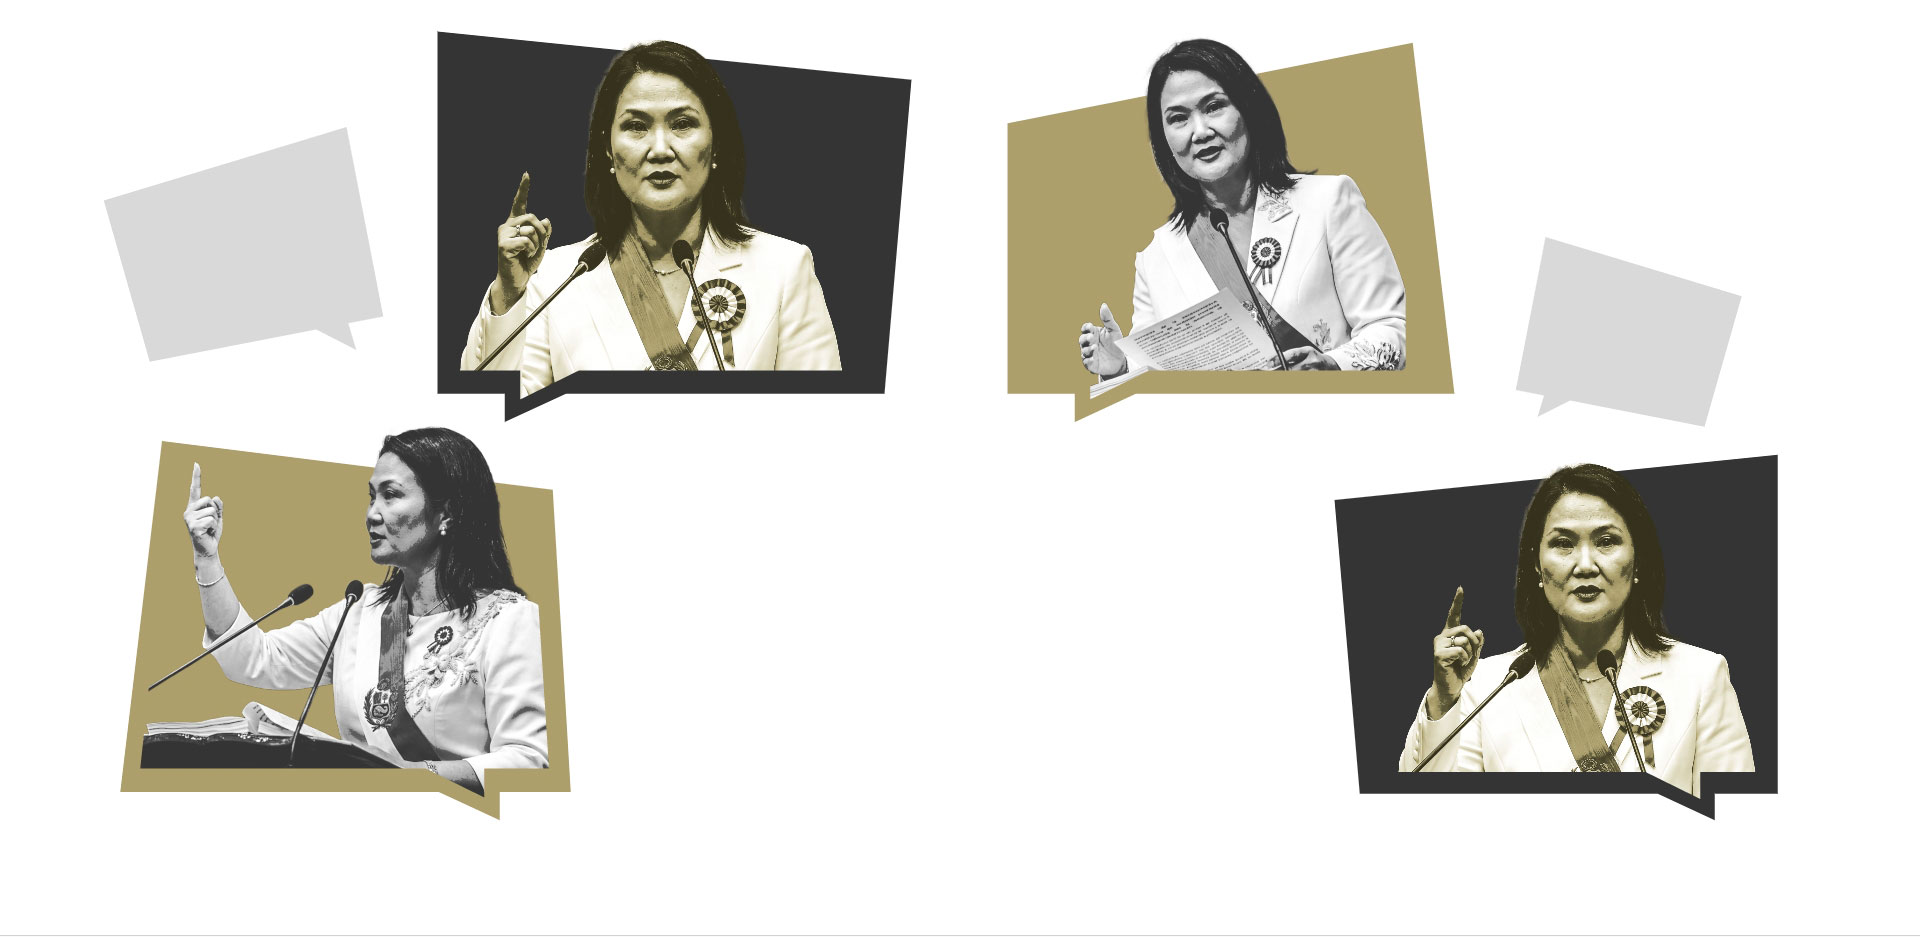
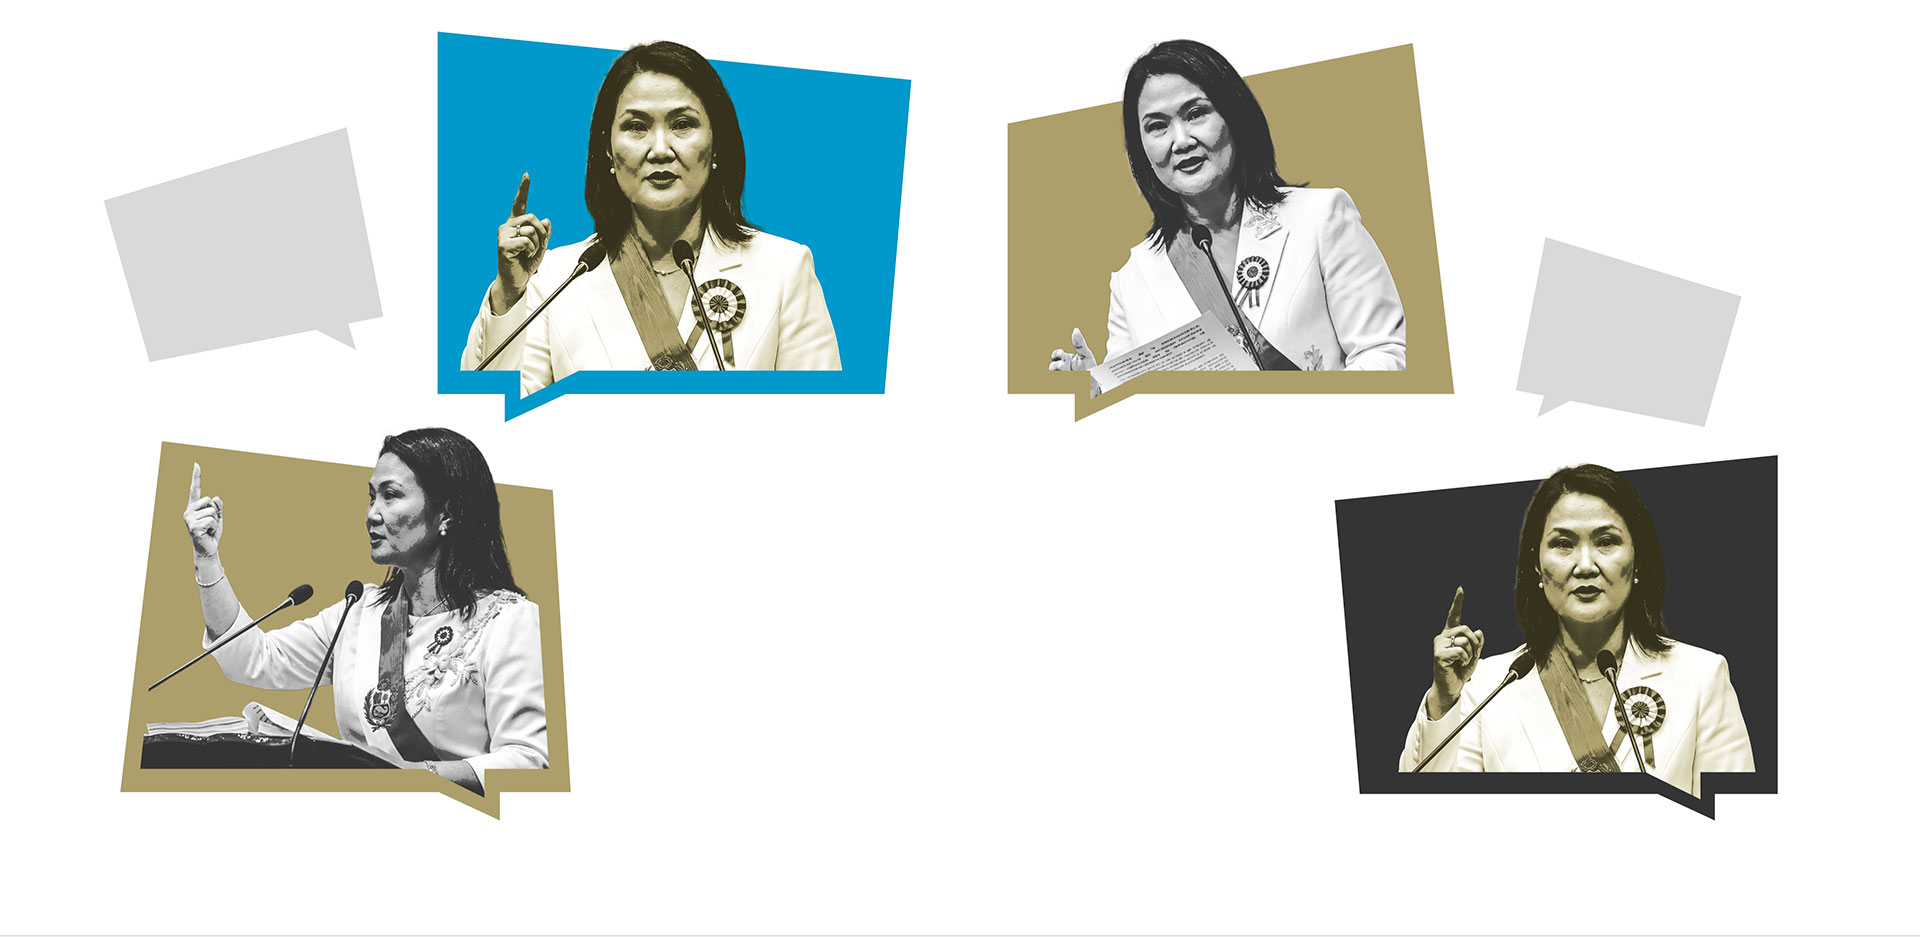
update

diff --git a/css/style.css b/css/style.css
@@ -381,6 +381,8 @@
       padding: 0 24px;
       border-radius: 3px;
       margin-bottom: 32px;
+      max-width: 635px;
+      margin: 30px auto;
     }
     #audio-player.sticky {
       position: fixed;
@@ -903,7 +905,7 @@
       color: var(--ink);
     }
     .story-caption .story-handle { color: var(--ink-muted); }
-    .story-caption .story-cat { font-weight: 700; }
+    .story-caption .story-cat { font-weight: 700; display: block;}
 
     /* Visor de historias (overlay) */
     .stviewer {
@@ -1673,6 +1675,10 @@
       background: white;
     }
 
+    #perfil,
+    .modE-marcos-card{
+      display: none;
+    }
     /* ─── Módulo 05 — Perfil y Forma del Discurso ─────────────── */
     .modE-section { padding: 72px 24px; background: var(--bg); border-bottom: 1px solid var(--border); }
     .modE-inner { max-width: 960px; margin: 0 auto; }
@@ -1929,7 +1935,7 @@
     }
     @media (max-width: 620px) { .rz-float-card { position: static; width: 100%; margin-top: 24px; } }
     .rz-float-rule { height: 1px; background: var(--ink); width: 44px; }
-    .rz-float-title { font-family: var(--font-serif); font-size: 18px; font-weight: 700; color: var(--ink); line-height: 1.3; margin: 16px 0 12px; }
+    .rz-float-title { font-family: var(--font-serif); font-size: 17px; font-weight: 700; color: var(--ink); line-height: 1.3; margin: 16px 0 12px; }
     .rz-float-desc { font-size: 13px; color: var(--ink-muted); line-height: 1.6; margin-bottom: 18px; }
     .rz-float-rule + .rz-float-audio { margin-top: 16px; }
     .rz-float-audio {

diff --git a/js/main.js b/js/main.js
@@ -7930,10 +7930,10 @@ document.addEventListener('keydown', e => {
 // ═══════════════════════════════════════════════════════════════
 (function() {
   var EDITORES = [
-    { handle: '@NombreUsuario', categoria: 'Política',  avatar: './img/editores/politica.jpg',  video: './video/editores/politica.mp4'  },
-    { handle: '@NombreUsuario', categoria: 'Economía',  avatar: './img/editores/economia.jpg',  video: './video/editores/economia.mp4'  },
-    { handle: '@NombreUsuario', categoria: 'ECData',    avatar: './img/editores/ecdata.jpg',    video: './video/editores/ecdata.mp4'    },
-    { handle: '@NombreUsuario', categoria: 'Nacional',  avatar: './img/editores/nacional.jpg',  video: './video/editores/nacional.mp4'  }
+    { handle: 'Hector Villalobos', categoria: 'Política',  avatar: './img/editores/politica.jpg',  video: './video/editores/politica.mp4'  },
+    { handle: 'Maro Villalobos', categoria: 'Economía',  avatar: './img/editores/economia.jpg',  video: './video/editores/economia.mp4'  },
+    { handle: 'Ariana Lira', categoria: 'ECData',    avatar: './img/editores/ecdata.jpg',    video: './video/editores/ecdata.mp4'    },
+    { handle: 'Juan Pablo León', categoria: 'Nacional',  avatar: './img/editores/nacional.jpg',  video: './video/editores/nacional.mp4'  }
   ];
   var FALLBACK_SECS = 6;    // duración de la barra si el video no carga
   var HOLD_MS = 220;        // umbral para distinguir "tap" de "mantener presionado"
@@ -7956,7 +7956,7 @@ document.addEventListener('keydown', e => {
         '<span class="story-avatar-fallback">' + inicial + '</span>' +
       '</span></span>' +
       '<span class="story-caption"><span class="story-handle">' + e.handle +
-      '</span> / <span class="story-cat">' + e.categoria + '</span></span>';
+      '</span>  <span class="story-cat">' + e.categoria + '</span></span>';
     btn.addEventListener('click', function() { open(i); });
     row.appendChild(btn);
   });

diff --git a/discurso-completo.html b/discurso-completo.html
@@ -10,7 +10,7 @@
     <link rel="preconnect" href="https://fonts.googleapis.com">
     <link rel="preconnect" href="https://fonts.gstatic.com" crossorigin>
     <link href="https://fonts.googleapis.com/css2?family=Roboto:wght@400;500;700&display=swap" rel="stylesheet">
-    <link rel="stylesheet" href="./css/style.css?v2">
+    <link rel="stylesheet" href="./css/style.css?v3">
     <!--Ivy font-->
     <link rel="stylesheet" href="https://use.typekit.net/otp2meg.css">
 </head>
@@ -140,7 +140,7 @@
 
       <!-- Barras de temas -->
       <div class="rz-cell rz-cell--divT rz-cell--divL rz-cell--pad">
-        <h3 class="rz-metric-title rz-metric-title--center">Palabras que más se repiten</h3>
+        <h3 class="rz-metric-title rz-metric-title--center">Distribución del tiempo por temas</h3>
         <div id="rz-theme-bars" class="rz-theme-bars"></div>
       </div>
 
@@ -290,7 +290,6 @@
     </figure>
 
     <div class="rz-quote-card">
-      <div class="rz-quote-rule"></div>
       <p class="rz-quote-time">02:59 - 15:25</p>
       <div class="rz-quote-rule"></div>
       <blockquote class="rz-quote-text">“Nemo enim ipsam voluptatem quia voluptas sit aspernatur aut odit aut fugit, sed quia consequuntur magni…”</blockquote>
@@ -366,7 +365,7 @@
   <!-- Filtros de tema -->
   <div class="filter-section" id="filter-section">
     <div class="filter-row">
-      <span class="filter-label">Tema</span>
+      <span class="filter-label">Seleccionar tema:</span>
       <div class="filter-chips" id="filter-chips-tema"></div>
       <button class="chip-reset" id="chip-reset-tema">✕ Todo</button>
     </div>
@@ -474,7 +473,6 @@
     </figure>
 
     <div class="rz-quote-card">
-      <div class="rz-quote-rule"></div>
       <p class="rz-quote-time">02:59 - 15:25</p>
       <div class="rz-quote-rule"></div>
       <blockquote class="rz-quote-text">“Nemo enim ipsam voluptatem quia voluptas sit aspernatur aut odit aut fugit, sed quia consequuntur magni…”</blockquote>
@@ -663,7 +661,6 @@
     </figure>
 
     <div class="rz-quote-card">
-      <div class="rz-quote-rule"></div>
       <p class="rz-quote-time">02:59 - 15:25</p>
       <div class="rz-quote-rule"></div>
       <blockquote class="rz-quote-text">“Nemo enim ipsam voluptatem quia voluptas sit aspernatur aut odit aut fugit, sed quia consequuntur magni…”</blockquote>